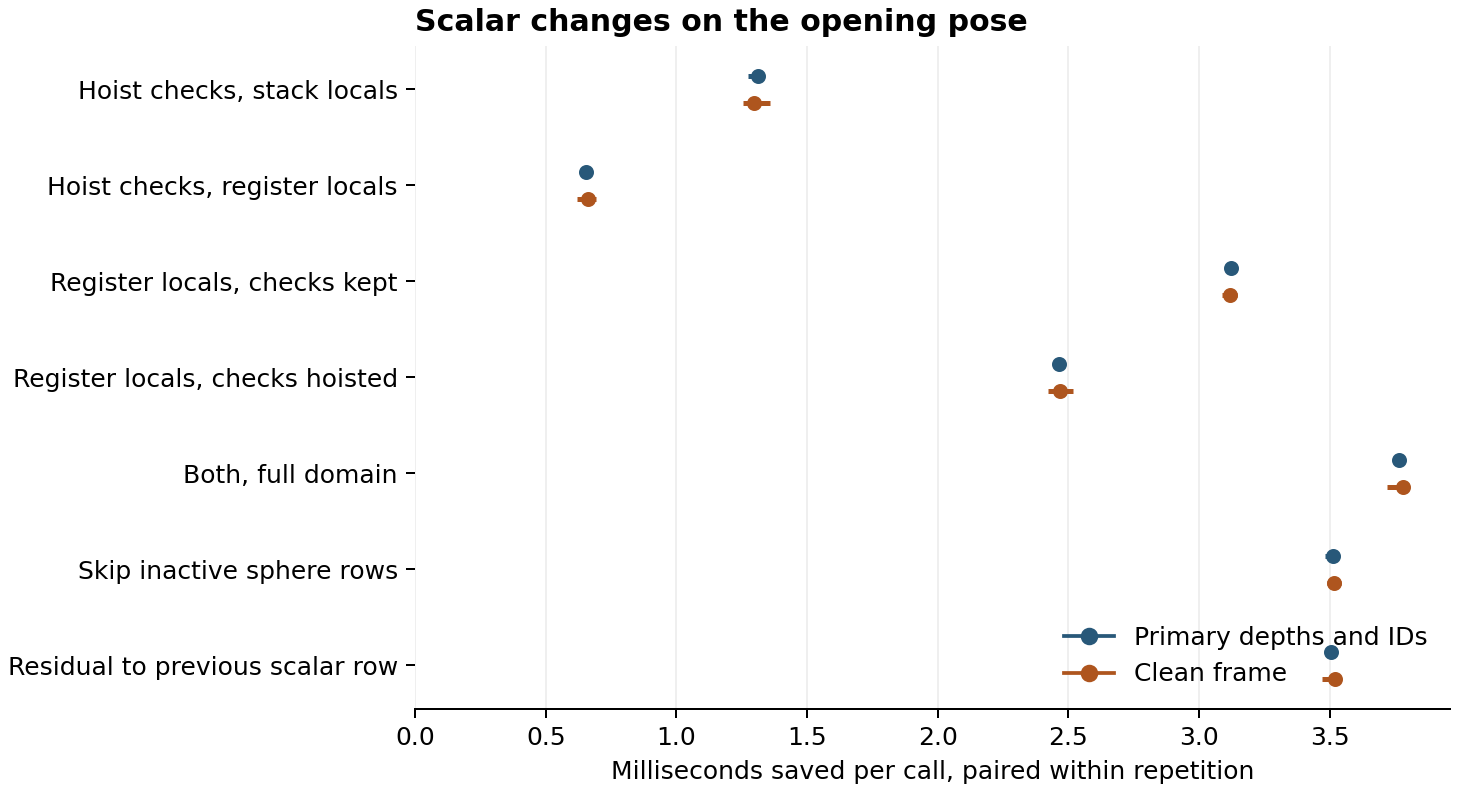
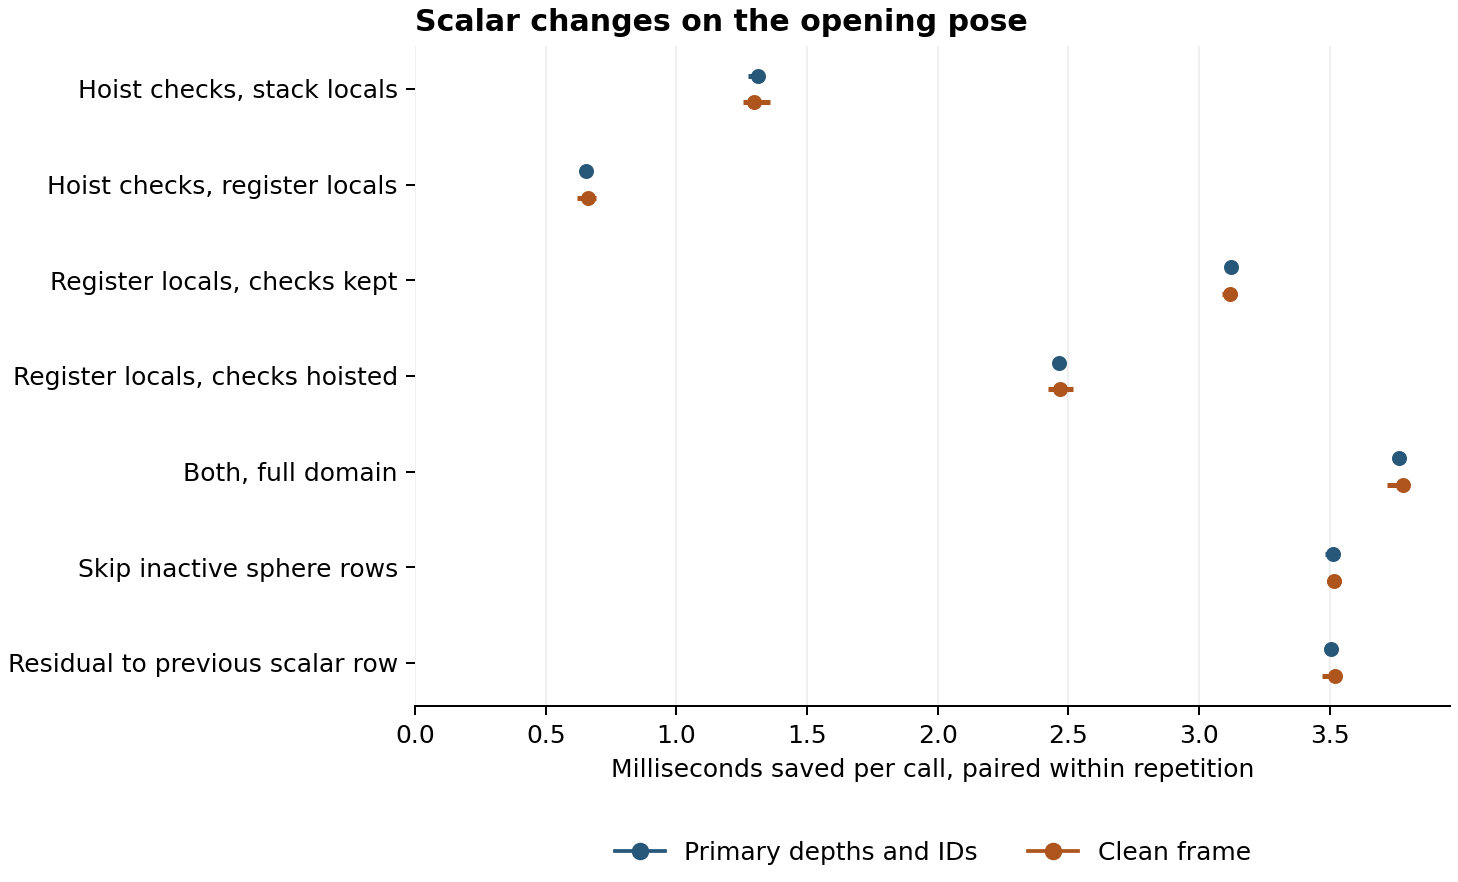
Put the paired time chart legend outside the plotted data

diff --git a/ttmp/2026/11/21/PICOCALC-SCALAR-BREAKDOWN--factor-the-typed-ray-scalar-row/scripts/device/06-effects-figure.py b/ttmp/2026/11/21/PICOCALC-SCALAR-BREAKDOWN--factor-the-typed-ray-scalar-row/scripts/device/06-effects-figure.py
@@ -10,7 +10,7 @@ receipt=json.loads(Path(sys.argv[1]).read_text())['poses']['default']['pairedSav
 effects=[('hoistWhenStack','Hoist checks, stack locals'),('hoistWhenRegisters','Hoist checks, register locals'),
          ('registersWhenChecked','Register locals, checks kept'),('registersWhenHoisted','Register locals, checks hoisted'),
          ('both','Both, full domain'),('skip','Skip inactive sphere rows'),('remainingToPriorMatched','Residual to previous scalar row')]
-fig,ax=plt.subplots(figsize=(8.1,4.4),layout='constrained')
+fig,ax=plt.subplots(figsize=(8.1,4.9),layout='constrained')
 for i,(key,label) in enumerate(effects):
     for phase,offset,color in [('primary',-.14,'#285879'),('clean',.14,'#ae551e')]:
         d=receipt[phase][key];y=i+offset
@@ -22,5 +22,5 @@ ax.set_xlabel('Milliseconds saved per call, paired within repetition');ax.set_xl
 ax.set_title('Scalar changes on the opening pose',loc='left',weight='bold')
 ax.grid(axis='x',alpha=.2);ax.set_axisbelow(True);ax.spines[['right','top','left']].set_visible(False)
 legend=[Line2D([],[],color=c,marker='o',label=l) for c,l in [('#285879','Primary depths and IDs'),('#ae551e','Clean frame')]]
-ax.legend(handles=legend,loc='lower right',frameon=False)
+ax.legend(handles=legend,loc='upper center',bbox_to_anchor=(.5,-.17),ncol=2,frameon=False)
 fig.savefig(sys.argv[2],dpi=180)
